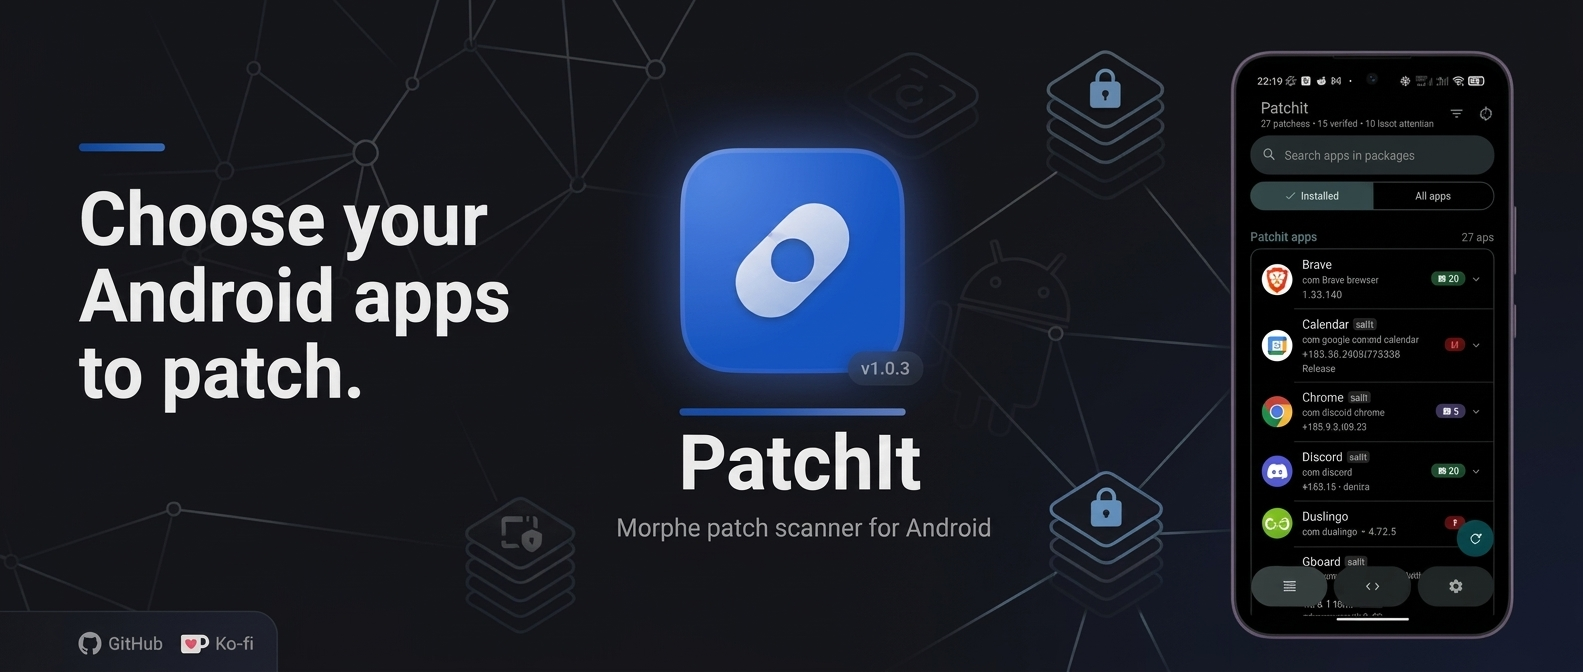
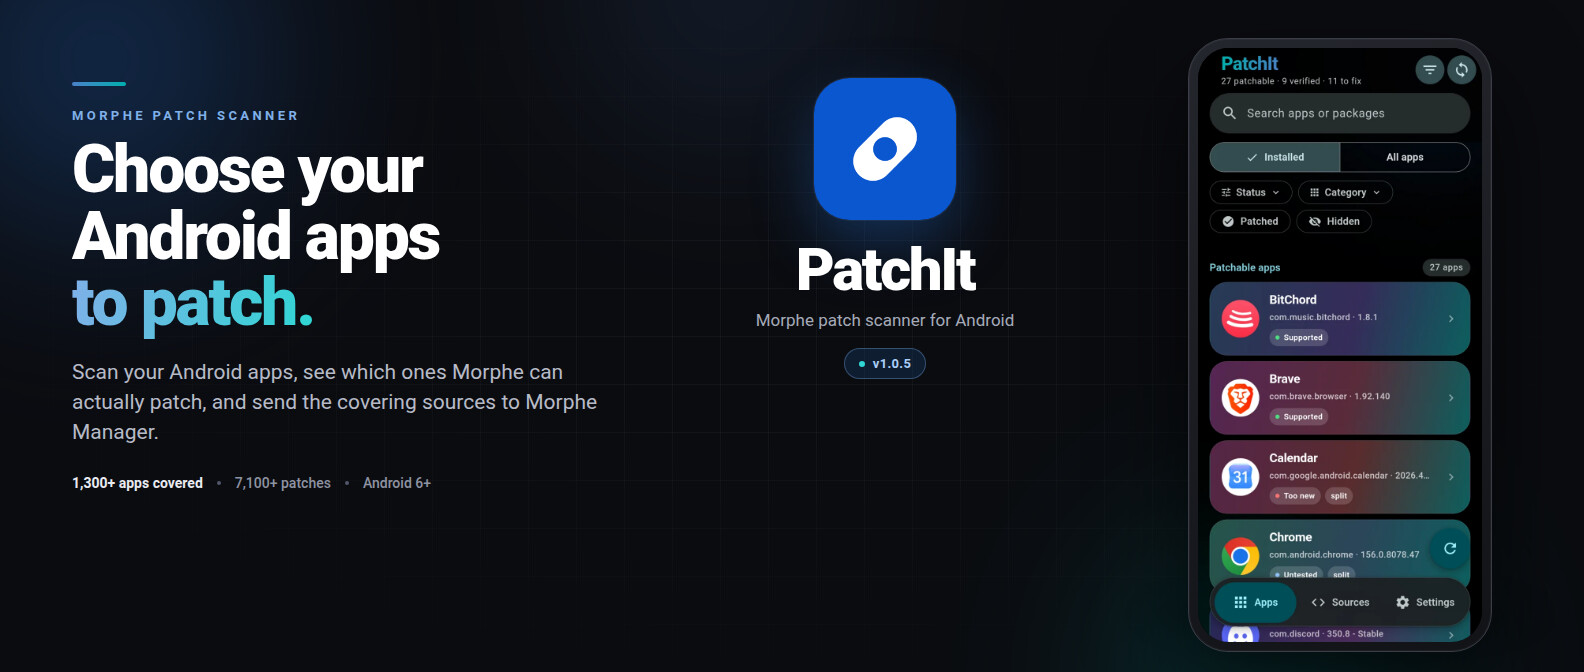
Update website for PatchIt 1.0.5

diff --git a/docs/index.html b/docs/index.html
@@ -228,6 +228,19 @@
           </g>
         </symbol>
 
+        <symbol id="i-eye-off" viewBox="0 0 24 24">
+          <g fill="none" stroke="currentColor" stroke-width="2" stroke-linecap="round" stroke-linejoin="round">
+            <path d="M17.94 17.94A10.07 10.07 0 0 1 12 20c-7 0-11-8-11-8a18.45 18.45 0 0 1 5.06-5.94M9.9 4.24A9.12 9.12 0 0 1 12 4c7 0 11 8 11 8a18.5 18.5 0 0 1-2.16 3.19m-6.72-1.07a3 3 0 1 1-4.24-4.24" />
+            <line x1="1" y1="1" x2="23" y2="23" />
+          </g>
+        </symbol>
+
+        <symbol id="i-filter" viewBox="0 0 24 24">
+          <g fill="none" stroke="currentColor" stroke-width="2" stroke-linecap="round" stroke-linejoin="round">
+            <polygon points="22 3 2 3 10 12.46 10 19 14 21 14 12.46 22 3" />
+          </g>
+        </symbol>
+
         <symbol id="i-bug" viewBox="0 0 24 24">
           <g fill="none" stroke="currentColor" stroke-width="2" stroke-linecap="round" stroke-linejoin="round">
             <rect x="8" y="6" width="8" height="14" rx="4" />
@@ -344,7 +357,7 @@
                 href="https://github.com/d3ffen/patchit/releases/latest"
               >
                 <svg><use href="#i-download"></use></svg>
-                Download PatchIt 1.0.4
+                Download PatchIt 1.0.5
               </a>
               <a
                 class="btn btn--outlined"
@@ -358,7 +371,7 @@
             </div>
 
             <p class="hero__meta">
-              <span>3.6 MB APK</span>
+              <span>3.9 MB APK</span>
               <span class="dot" aria-hidden="true"></span>
               <span>Android 6.0+</span>
               <span class="dot" aria-hidden="true"></span>
@@ -367,11 +380,11 @@
 
             <div class="stats">
               <div class="stat">
-                <div class="stat__num">4,200+</div>
+                <div class="stat__num">7,100+</div>
                 <div class="stat__label">patches indexed</div>
               </div>
               <div class="stat">
-                <div class="stat__num">970+</div>
+                <div class="stat__num">1,300+</div>
                 <div class="stat__label">packages covered</div>
               </div>
               <div class="stat">
@@ -431,8 +444,8 @@
                 <svg><use href="#i-layers"></use></svg>
               </span>
               <span>
-                <span class="float-card__title">4,200 patches</span><br />
-                <span class="float-card__sub">across 970 apps</span>
+                <span class="float-card__title">7,100 patches</span><br />
+                <span class="float-card__sub">across 1,300 apps</span>
               </span>
             </div>
           </div>
@@ -517,7 +530,7 @@
               <div class="card__icon"><svg><use href="#i-layers"></use></svg></div>
               <h3>Covers community patches</h3>
               <p>
-                Around 4,200 patches across roughly 970 packages from the Morphe patch ecosystem.
+                Around 7,100 patches across roughly 1,300 packages from the Morphe patch ecosystem.
               </p>
             </article>
 
@@ -527,6 +540,33 @@
               <p>
                 Switch to <strong>All apps</strong> to see every package the sources cover, even
                 ones that aren't installed. Tap one to see its supported versions.
+              </p>
+            </article>
+
+            <article class="card card--accent reveal">
+              <div class="card__icon"><svg><use href="#i-filter"></use></svg></div>
+              <h3>Filters like the community site</h3>
+              <p>
+                Narrow the list by Play Store category, verdict, patched state or hidden state — on
+                both Installed and All apps.
+              </p>
+            </article>
+
+            <article class="card card--accent reveal">
+              <div class="card__icon"><svg><use href="#i-eye-off"></use></svg></div>
+              <h3>Hide what you don't patch</h3>
+              <p>
+                Swipe a row left to hide it, undo from the snackbar, and reveal hidden apps again
+                whenever you need them.
+              </p>
+            </article>
+
+            <article class="card card--accent reveal">
+              <div class="card__icon"><svg><use href="#i-check-circle"></use></svg></div>
+              <h3>Remember patched builds</h3>
+              <p>
+                Swipe right to mark an app as patched. PatchIt stores the build, so a later update
+                shows as <strong>Patched · older build</strong> instead of pretending it is current.
               </p>
             </article>
 
@@ -647,7 +687,7 @@
               </div>
               <figcaption>
                 <h3>Apps</h3>
-                <p>Installed apps with a verdict, patch count and signature state at a glance.</p>
+                <p>Installed apps with a verdict, patch count and signature state at a glance — plus hidden and patched states.</p>
               </figcaption>
             </figure>
 
@@ -850,8 +890,8 @@ cd android &amp;&amp; ./gradlew assembleDebug</code></pre>
     <!-- ===================== Mobile sticky download bar ===================== -->
     <div class="mobile-cta" id="mobile-cta">
       <div class="mobile-cta__text">
-        <strong>PatchIt 1.0.4</strong>
-        <span>3.6 MB APK · Android 6+</span>
+        <strong>PatchIt 1.0.5</strong>
+        <span>3.9 MB APK · Android 6+</span>
       </div>
       <a class="btn btn--filled" href="https://github.com/d3ffen/patchit/releases/latest">
         <svg><use href="#i-download"></use></svg>

diff --git a/README.md b/README.md
@@ -30,7 +30,7 @@ patch — then hands the covering patch sources to Morphe Manager.
 - **Checks compatibility** — by `versionCode` first, version name second. Verdicts
   are `supported`, `experimental`, `untested`, `too new`, `too old` or
   `no patches`, computed per source.
-- **Covers community patches** — ~4,200 patches across ~970 packages.
+- **Covers community patches** — ~7,100 patches across ~1,300 packages.
 - **Browses apps you don't have** — switch the Apps tab to **All apps** to see
   every package the sources cover, not only the ones installed. Tapping one shows
   which versions it supports and lets you add that source to Morphe straight away.
